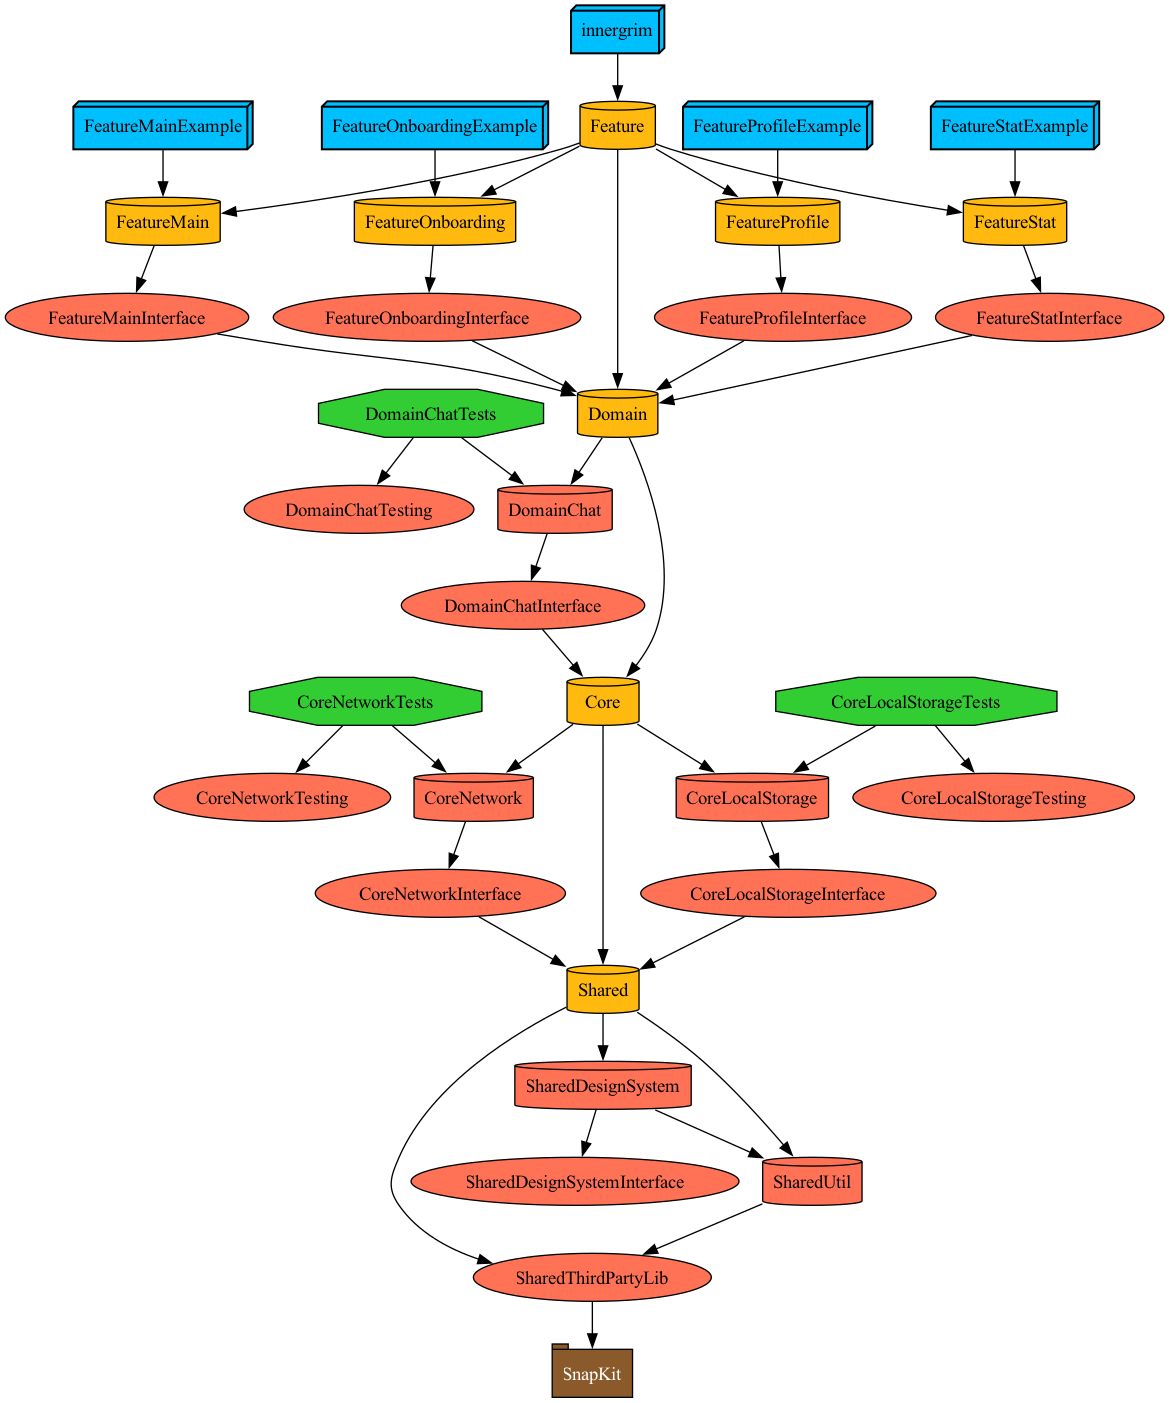
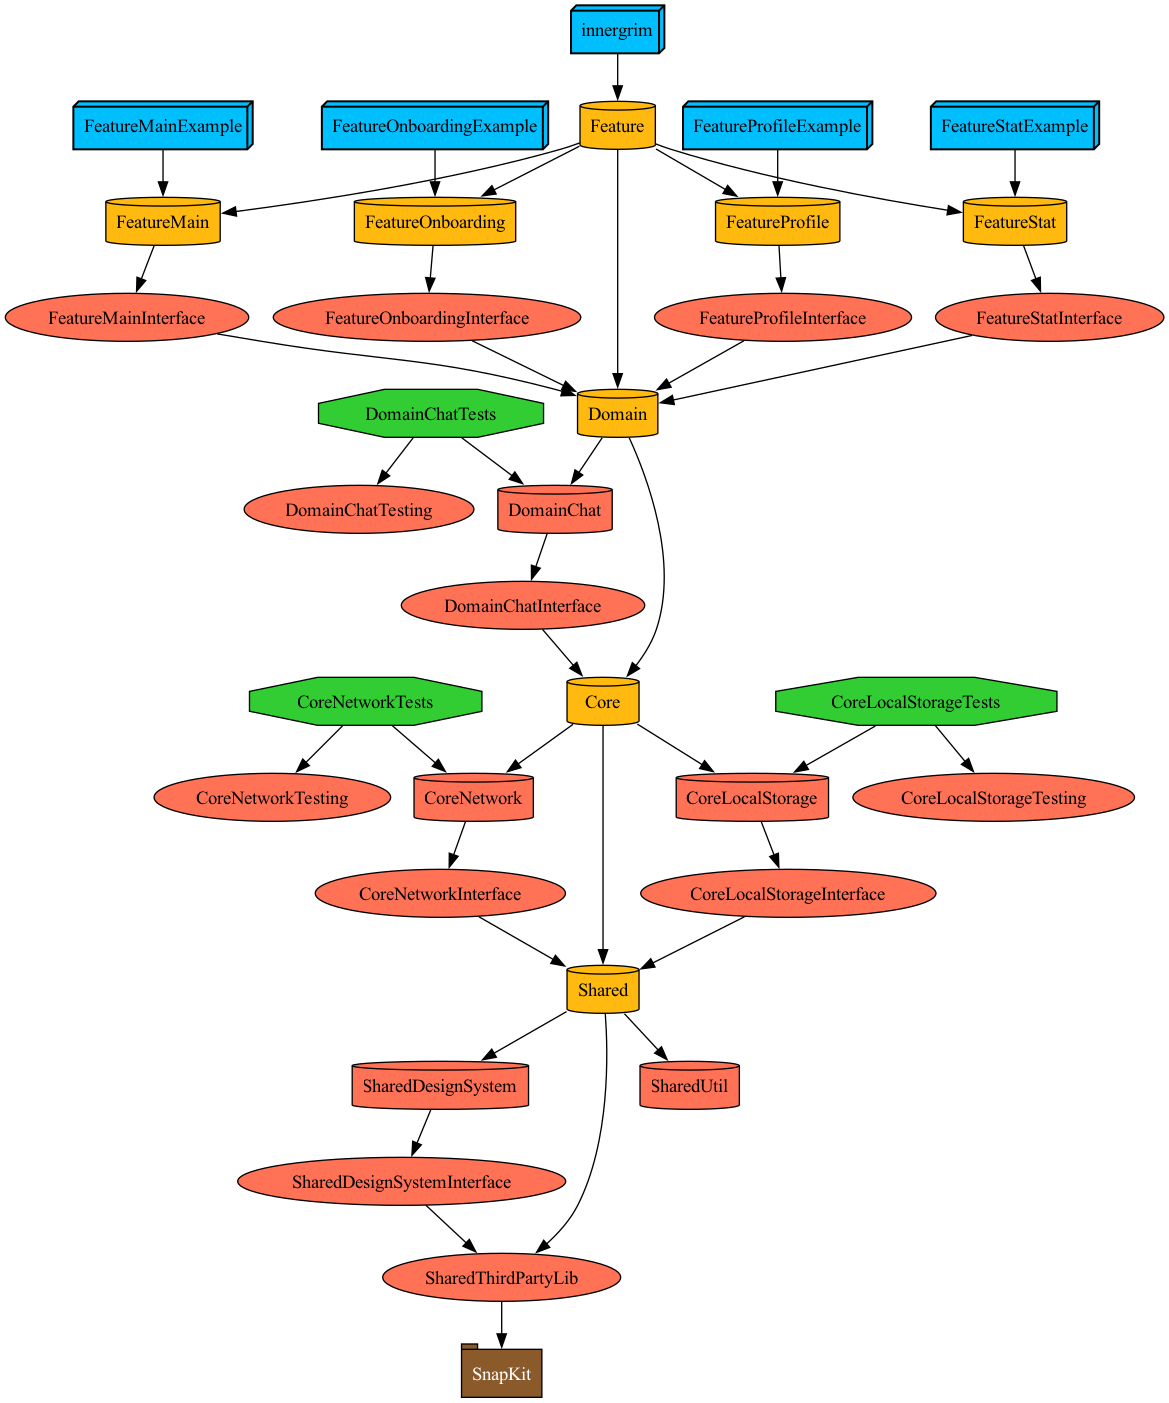
refactor: Shared 하위 모듈 의존성 변경

Changed region(s): [[0.1848, 0.7356, 0.7391, 1.0]]

diff --git a/Projects/Shared/DesignSystem/Project.swift b/Projects/Shared/DesignSystem/Project.swift
@@ -12,14 +12,17 @@ import ProjectDescription
 let targets: [Target] = [
     .shared(
         interface: .DesignSystem,
-        factory: .init()
+        factory: .init(
+            dependencies: [
+                .shared(implements: .ThirdPartyLib)
+            ]
+        )
     ),
     .shared(
         implements: .DesignSystem,
         factory: .init(
             dependencies: [
-                .shared(interface: .DesignSystem),
-                .shared(implements: .Util)
+                .shared(interface: .DesignSystem)
             ]
         )
     )

diff --git a/Projects/Shared/ThirdPartyLib/Project.swift b/Projects/Shared/ThirdPartyLib/Project.swift
@@ -30,7 +30,7 @@ let targets: [Target] = [
 let project: Project = .makeModule(
     name: ModulePath.Shared.ThirdPartyLib.rawValue,
     packages: [
-        .remote(url: "https://github.com/SnapKit/SnapKit", requirement: .upToNextMajor(from: "5.0.1"))
+        .remote(url: "https://github.com/SnapKit/SnapKit", requirement: .upToNextMajor(from: "5.0.0"))
     ],
     targets: targets
 )

diff --git a/Projects/Shared/Util/Project.swift b/Projects/Shared/Util/Project.swift
@@ -12,11 +12,7 @@ import ProjectDescriptionHelpers
 let targets: [Target] = [
     .shared(
         implements: .Util,
-        factory: .init(
-            dependencies: [
-                .shared(implements: .ThirdPartyLib)
-            ]
-        )
+        factory: .init()
     )
 ]
 
